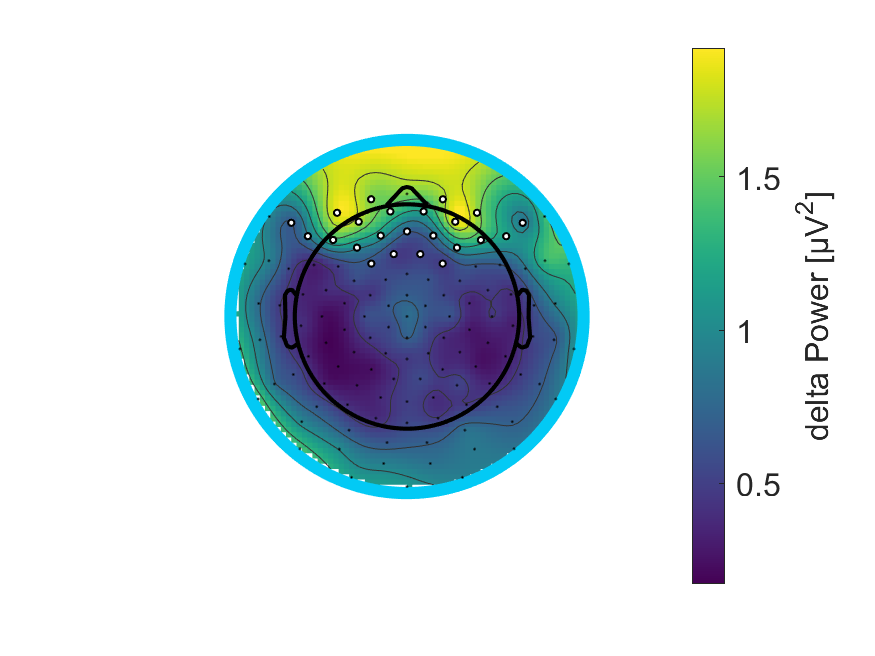
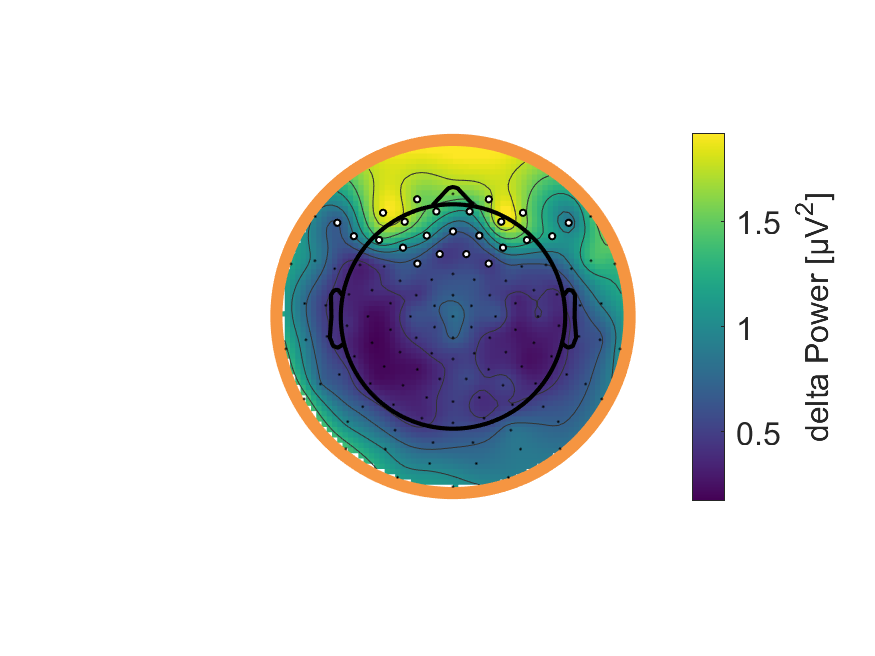
update

diff --git a/scripts/Visualize_power_2cluster.m b/scripts/Visualize_power_2cluster.m
@@ -47,12 +47,12 @@ hc=colorbar;
 caxis([0.346 2.97])
 xlabel(hc,'beta Power [μV^2]');
 %title ('cluster 1 ');
-set(findobj(gca,'type','patch'),'facecolor', '#F59541'); % Change [0.5, 0.5, 0.5] to your desired color
+set(findobj(gca,'type','patch'),'facecolor', '#02CAF5'); % Change [0.5, 0.5, 0.5] to your desired color
 set(gca, 'FontSize', 17);
 % Define the file name for saving the figure (as PNG)
 file_name = fullfile(output_folder, 'beta_C1.png');
 saveas(fig, file_name); % Save the figure in PNG format at the specified location
-exportgraphics(fig, file_name, 'Resolution', 300);
+%exportgraphics(fig, file_name, 'Resolution', 300);
 
 %Beta C2
  fig = figure;
@@ -60,8 +60,8 @@ topoplot(data_beta_c2.data,EEG_epoched_5.chanlocs,'colormap',viridis,'electrodes
 hc=colorbar;
 caxis([0.346 2.97])
 xlabel(hc,'beta Power [μV^2]');
-%title ('ohne PCS ');
-set(findobj(gca,'type','patch'),'facecolor', '#02CAF5'); % Change [0.5, 0.5, 0.5] to your desired color
+%title ('cluster 2 ');
+set(findobj(gca,'type','patch'),'facecolor', '#F59541'); % Change [0.5, 0.5, 0.5] to your desired color
 set(gca, 'FontSize', 17);
 file_name = fullfile(output_folder, 'beta_C2.png');
 saveas(fig, file_name); % Save the figure in PNG format at the specified location
@@ -72,8 +72,8 @@ topoplot(data_delta_c1.data,EEG_epoched_5.chanlocs,'colormap',viridis,'electrode
 hc=colorbar;
 caxis([0.172 1.92])
 xlabel(hc,'delta Power [μV^2]');
-%title ('with PCS ');
-set(findobj(gca,'type','patch'),'facecolor', '#F59541'); % Change [0.5, 0.5, 0.5] to your desired color
+%title ('Cluster 1 ');
+set(findobj(gca,'type','patch'),'facecolor', '#02CAF5'); % Change [0.5, 0.5, 0.5] to your desired color
 set(gca, 'FontSize', 17);
 file_name = fullfile(output_folder, 'delta_C1.png');
 saveas(fig, file_name); % Save the figure in PNG format at the specified location
@@ -84,8 +84,8 @@ topoplot(data_delta_c2.data,EEG_epoched_5.chanlocs,'colormap',viridis,'electrode
 hc=colorbar;
 caxis([0.172 1.92]);
 xlabel(hc,'delta Power [μV^2]');
-%title ('without PCS ');
-set(findobj(gca,'type','patch'),'facecolor', '#02CAF5'); % Change [0.5, 0.5, 0.5] to your desired color
+%title ('Cluster 2 ');
+set(findobj(gca,'type','patch'),'facecolor', '#F59541'); % Change [0.5, 0.5, 0.5] to your desired color
 set(gca, 'FontSize', 17);
 file_name = fullfile(output_folder, 'delta_C2.png');
 saveas(fig, file_name); % Save the figure in PNG format at the specified location
